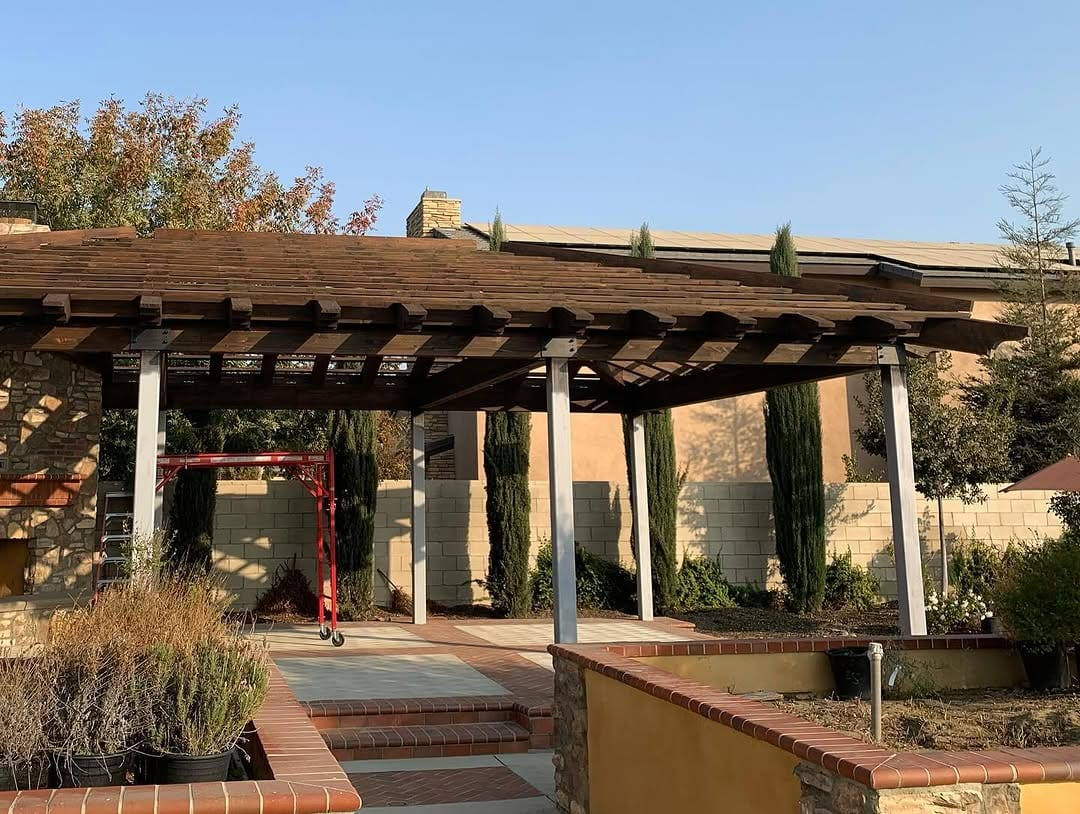
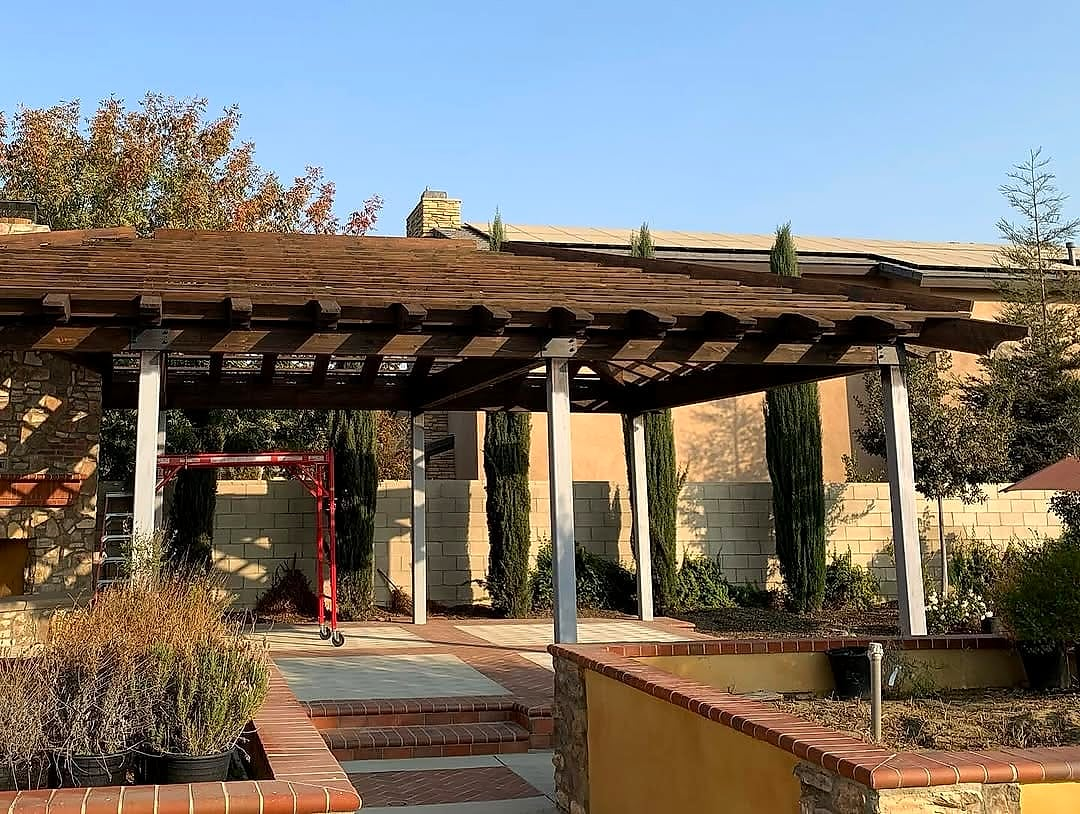
Finish project photos and present them as a brush-masked film strip
- Add scripts/enhance-photos.js (levels, color, sharpening) and run it
  on all ten project photos
- Replace the masonry grid with a horizontal, scroll-snapping showcase:
  each photo is clipped with a ragged brush-stroke mask, carries a big
  stencil number, drifts slowly (Ken Burns), and dims when not centred;
  arrows, counter, dots and filters, with the lightbox kept
- Slow drift on the service and "Why SRL" photos; all motion off under
  prefers-reduced-motion

Claude-Session: https://claude.ai/code/session_01K8SoZqZLaBqhyhpQF7g1ka

diff --git a/src/app/globals.css b/src/app/globals.css
@@ -407,48 +407,6 @@ p { color: var(--muted); }
 }
 .gallery-filters button:hover { border-color: var(--ink); }
 .gallery-filters button[aria-pressed="true"] { background: var(--black); border-color: var(--black); color: white; }
-.gallery-grid {
-  list-style: none;
-  padding: 0;
-  margin: 0;
-  display: grid;
-  grid-template-columns: repeat(3, minmax(0, 1fr));
-  grid-auto-rows: 240px;
-  grid-auto-flow: dense;
-  gap: 16px;
-}
-.gallery-grid li.is-tall { grid-row: span 2; }
-.gallery-grid button {
-  position: relative;
-  display: block;
-  width: 100%;
-  height: 100%;
-  padding: 0;
-  border: 0;
-  border-radius: 16px;
-  overflow: hidden;
-  background: var(--char);
-  cursor: zoom-in;
-}
-.gallery-grid img { object-fit: cover; transition: transform .7s cubic-bezier(.22,1,.36,1); }
-.gallery-grid button::after { content: ""; position: absolute; inset: 0; background: linear-gradient(180deg, transparent 55%, #000a); }
-.gallery-caption {
-  position: absolute;
-  left: 18px;
-  right: 18px;
-  bottom: 16px;
-  z-index: 1;
-  display: flex;
-  flex-direction: column;
-  align-items: flex-start;
-  color: white;
-  text-align: left;
-  font-weight: 700;
-  font-size: 16px;
-  line-height: 1.25;
-}
-.gallery-caption small { font-size: 11px; letter-spacing: .14em; text-transform: uppercase; color: #ffb3bb; margin-bottom: 4px; }
-@media (hover: hover) { .gallery-grid button:hover img { transform: scale(1.06); } }
 
 .lightbox {
   width: 100vw;
@@ -805,8 +763,6 @@ p { color: var(--muted); }
   .service-body { padding: 24px; }
   .commercial-band { padding: 32px 26px; }
   .promise-grid { grid-template-columns: 1fr; }
-  .gallery-grid { grid-template-columns: 1fr 1fr; grid-auto-rows: 170px; gap: 10px; }
-  .gallery-caption { left: 12px; right: 12px; bottom: 10px; font-size: 14px; }
   .lightbox figure { inset: 76px 12px 90px; }
   .lightbox-nav { top: auto; bottom: 20px; transform: none; }
   .lightbox-nav.prev { left: calc(50% - 64px); }
@@ -957,8 +913,6 @@ p { color: var(--muted); }
 @media (hover: hover) {
   .service-card:hover .service-photo::after { transform: translateX(120%); }
   .service-card:hover .service-body h3 .srl-icon { transform: rotate(-12deg) scale(1.12); }
-  .gallery-grid button { transition: transform .4s cubic-bezier(.2,.9,.2,1), box-shadow .4s; }
-  .gallery-grid button:hover { transform: translateY(-4px) rotate(-.4deg); box-shadow: 0 24px 40px -24px #000a, 0 0 0 3px var(--red); }
 }
 
 /* Shared house illustration */
@@ -1108,3 +1062,80 @@ p { color: var(--muted); }
   .paint-drips .drip { transform: none !important; animation: none !important; }
   .process-steps li { opacity: 1; transform: none; }
 }
+
+
+/* ───────────── Project showcase (film strip) ───────────── */
+.showcase { position: relative; }
+.showcase-bar { display: flex; flex-wrap: wrap; align-items: center; justify-content: space-between; gap: 16px; margin-bottom: 28px; }
+.gallery-filters { margin-bottom: 0; }
+.showcase-nav { display: flex; align-items: center; gap: 8px; }
+.showcase-count { margin-right: 10px; font-size: 14px; color: var(--muted); font-variant-numeric: tabular-nums; }
+.showcase-count strong { font-family: var(--font-display), Impact, sans-serif; font-weight: 400; font-size: 30px; color: var(--ink); margin-right: 4px; }
+.showcase-nav button { display: grid; place-items: center; width: 52px; height: 52px; border-radius: 50%; border: 1.5px solid var(--line); background: white; color: var(--ink); }
+.showcase-nav button:hover { background: var(--black); border-color: var(--black); color: white; }
+.showcase-strip {
+  list-style: none;
+  margin: 0 calc(50% - 50vw);
+  padding: 20px calc(50vw - 50%) 10px;
+  display: flex;
+  gap: 32px;
+  overflow-x: auto;
+  scroll-snap-type: x mandatory;
+  scroll-padding-inline: calc(50vw - 50%);
+  scrollbar-width: none;
+  overscroll-behavior-x: contain;
+}
+.showcase-strip::-webkit-scrollbar { display: none; }
+.showcase-strip li { flex: 0 0 min(60vw, 820px); scroll-snap-align: center; transition: opacity .5s, filter .5s, transform .6s cubic-bezier(.2,.9,.2,1); opacity: .7; filter: saturate(.4); transform: scale(.94); }
+.showcase-strip li.is-current { opacity: 1; filter: none; transform: none; }
+.showcase-strip button { position: relative; display: block; width: 100%; padding: 0; border: 0; background: transparent; cursor: zoom-in; }
+.showcase-frame {
+  position: relative;
+  display: block;
+  aspect-ratio: 5 / 3;
+  clip-path: url(#brush-mask);
+  background: var(--char);
+  filter: drop-shadow(0 30px 40px #0004);
+}
+.showcase-frame img { object-fit: cover; animation: kenburns 18s ease-in-out infinite alternate; transform-origin: 60% 40%; }
+.showcase-strip li:nth-child(even) .showcase-frame img { transform-origin: 35% 65%; animation-delay: -9s; }
+@keyframes kenburns { from { transform: scale(1); } to { transform: scale(1.12); } }
+.showcase-num {
+  position: absolute;
+  left: 6%;
+  top: 8%;
+  font-family: var(--font-display), Impact, sans-serif;
+  font-size: clamp(60px, 7vw, 110px);
+  line-height: 1;
+  color: transparent;
+  -webkit-text-stroke: 2px #fff;
+  opacity: .9;
+  text-shadow: 0 6px 30px #0006;
+  pointer-events: none;
+}
+.showcase-caption { display: grid; grid-template-columns: auto 1fr auto; align-items: baseline; gap: 14px; padding: 18px 6% 0; }
+.showcase-caption small { font-size: 11px; font-weight: 700; letter-spacing: .16em; text-transform: uppercase; color: var(--red-text); }
+.showcase-caption strong { font-size: 20px; letter-spacing: -.01em; }
+.showcase-caption span { font-size: 13px; color: var(--muted); }
+.showcase-dots { display: flex; justify-content: center; gap: 6px; margin-top: 22px; }
+.showcase-dots button { width: 10px; height: 10px; padding: 0; border: 0; border-radius: 10px; background: var(--line); transition: width .3s, background .3s; }
+.showcase-dots button.is-on { width: 34px; background: var(--red); }
+@media (hover: hover) {
+  .showcase-strip button:hover .showcase-frame { filter: drop-shadow(0 40px 50px #0006); }
+}
+@media (max-width: 700px) {
+  .showcase-strip { gap: 18px; }
+  .showcase-strip li { flex-basis: 86vw; }
+  .showcase-frame { aspect-ratio: 4 / 3; }
+  .showcase-caption { grid-template-columns: 1fr; gap: 4px; padding-top: 12px; }
+  .showcase-caption strong { font-size: 18px; }
+}
+@media (prefers-reduced-motion: reduce) { .showcase-frame img { animation: none; } }
+
+/* Photos elsewhere: slow drift + parallax */
+.why-photo img { animation: kenburns 22s ease-in-out infinite alternate; transform-origin: 50% 20%; }
+.service-photo img { animation: kenburns 26s ease-in-out infinite alternate; }
+.service-card:nth-child(2) .service-photo img { animation-delay: -8s; }
+.service-card:nth-child(3) .service-photo img { animation-delay: -16s; }
+@media (hover: hover) { .service-card:hover .service-photo img { animation-play-state: paused; transform: scale(1.1); } }
+@media (prefers-reduced-motion: reduce) { .why-photo img, .service-photo img { animation: none; } }

diff --git a/src/components/project-gallery.tsx b/src/components/project-gallery.tsx
@@ -7,9 +7,15 @@ import { SrlIcon } from "./srl-icon";
 
 const filters: ("All" | ProjectCategory)[] = ["All", "Exterior", "Interior", "Cabinets", "Outdoor"];
 
+// Ragged brush-stroke silhouette used to mask every photo in the strip.
+const brush =
+  "M20 25 L44 37 L68 36 L92 24 L116 25 L140 26 L164 35 L188 25 L212 37 L236 33 L260 42 L284 36 L308 14 L332 17 L356 13 L380 18 L404 36 L428 35 L452 20 L476 38 L500 27 L524 42 L548 37 L572 42 L596 35 L620 28 L644 29 L668 24 L692 40 L716 36 L740 26 L764 19 L788 34 L812 29 L836 30 L860 32 L884 38 L908 41 L932 25 L956 34 L980 23 L984 84 L998 140 L972 192 L995 246 L976 300 L987 354 L970 406 L989 460 L965 514 L996 568 L980 563 L956 581 L932 575 L908 563 L884 557 L860 567 L836 571 L812 563 L788 581 L764 582 L740 571 L716 560 L692 579 L668 566 L644 580 L620 567 L596 572 L572 560 L548 572 L524 583 L500 578 L476 566 L452 571 L428 577 L404 560 L380 566 L356 560 L332 572 L308 578 L284 573 L260 583 L236 565 L212 561 L188 575 L164 582 L140 570 L116 582 L92 564 L68 575 L44 566 L20 579 L18 520 L32 466 L6 412 L28 358 L10 304 L34 250 L14 196 L22 142 L2 88 L30 34Z";
+
 export function ProjectGallery() {
   const [filter, setFilter] = useState<(typeof filters)[number]>("All");
   const [open, setOpen] = useState<number | null>(null);
+  const [index, setIndex] = useState(0);
+  const strip = useRef<HTMLUListElement>(null);
   const dialog = useRef<HTMLDialogElement>(null);
   const opener = useRef<HTMLButtonElement | null>(null);
   const visible = projects.filter((p) => filter === "All" || p.category === filter);
@@ -21,37 +27,95 @@ export function ProjectGallery() {
     if (open === null && element.open) element.close();
   }, [open]);
 
+  // Track which card is centred so the counter and dots follow native scroll.
+  useEffect(() => {
+    const el = strip.current;
+    if (!el) return;
+    let raf = 0;
+    const update = () => {
+      raf = 0;
+      const cards = Array.from(el.children) as HTMLElement[];
+      const centre = el.scrollLeft + el.clientWidth / 2;
+      let best = 0, dist = Infinity;
+      cards.forEach((card, i) => {
+        const d = Math.abs(card.offsetLeft + card.offsetWidth / 2 - centre);
+        if (d < dist) { dist = d; best = i; }
+      });
+      setIndex(best);
+    };
+    const onScroll = () => { if (!raf) raf = requestAnimationFrame(update); };
+    el.addEventListener("scroll", onScroll, { passive: true });
+    update();
+    return () => { el.removeEventListener("scroll", onScroll); cancelAnimationFrame(raf); };
+  }, [visible.length]);
+
+  function scrollTo(i: number) {
+    const el = strip.current;
+    const card = el?.children[i] as HTMLElement | undefined;
+    if (!el || !card) return;
+    el.scrollTo({ left: card.offsetLeft - (el.clientWidth - card.offsetWidth) / 2, behavior: "smooth" });
+  }
   function step(delta: number) {
     setOpen((current) => current === null ? null : (current + delta + visible.length) % visible.length);
   }
   const current = open === null ? null : visible[open];
 
   return (
-    <div className="gallery">
-      <div className="gallery-filters" role="group" aria-label="Filter projects">
-        {filters.map((name) => (
-          <button key={name} type="button" aria-pressed={filter === name} onClick={() => setFilter(name)}>
-            {name}
-          </button>
-        ))}
+    <div className="showcase">
+      <svg width="0" height="0" aria-hidden="true" focusable="false" style={{ position: "absolute" }}>
+        <defs>
+          <clipPath id="brush-mask" clipPathUnits="objectBoundingBox">
+            <path transform="scale(0.001, 0.0016667)" d={brush} />
+          </clipPath>
+        </defs>
+      </svg>
+
+      <div className="showcase-bar">
+        <div className="gallery-filters" role="group" aria-label="Filter projects">
+          {filters.map((name) => (
+            <button key={name} type="button" aria-pressed={filter === name}
+              onClick={() => { setFilter(name); strip.current?.scrollTo({ left: 0 }); }}>
+              {name}
+            </button>
+          ))}
+        </div>
+        <div className="showcase-nav">
+          <span className="showcase-count" aria-live="polite">
+            <strong>{String(index + 1).padStart(2, "0")}</strong> / {String(visible.length).padStart(2, "0")}
+          </span>
+          <button type="button" onClick={() => scrollTo(Math.max(0, index - 1))} aria-label="Previous project"><SrlIcon name="left" /></button>
+          <button type="button" onClick={() => scrollTo(Math.min(visible.length - 1, index + 1))} aria-label="Next project"><SrlIcon name="right" /></button>
+        </div>
       </div>
-      <ul className="gallery-grid">
-        {visible.map((project, index) => (
-          <li key={project.src} className={project.tall ? "is-tall" : undefined}>
+
+      <ul className="showcase-strip" ref={strip} aria-label="Project photos">
+        {visible.map((project, i) => (
+          <li key={project.src} className={i === index ? "is-current" : undefined}>
             <button
               type="button"
-              onClick={(event) => { opener.current = event.currentTarget; setOpen(index); }}
+              onClick={(event) => { opener.current = event.currentTarget; setOpen(i); }}
               aria-label={`View larger: ${project.title}`}
             >
-              <Image src={project.src} alt={project.alt} fill sizes="(max-width: 700px) 50vw, 33vw" />
-              <span className="gallery-caption">
-                <small>{project.category}</small>
-                {project.title}
+              <span className="showcase-frame">
+                <Image src={project.src} alt={project.alt} fill sizes="(max-width: 700px) 86vw, 60vw" />
               </span>
+              <span className="showcase-num" aria-hidden="true">{String(i + 1).padStart(2, "0")}</span>
             </button>
+            <div className="showcase-caption">
+              <small>{project.category}</small>
+              <strong>{project.title}</strong>
+              <span>Bakersfield, CA</span>
+            </div>
           </li>
         ))}
       </ul>
+
+      <div className="showcase-dots" aria-hidden="true">
+        {visible.map((project, i) => (
+          <button key={project.src} type="button" tabIndex={-1} className={i === index ? "is-on" : undefined} onClick={() => scrollTo(i)} />
+        ))}
+      </div>
+
       <dialog
         ref={dialog}
         className="lightbox"

diff --git a/scripts/enhance-photos.js b/scripts/enhance-photos.js
@@ -1,0 +1,28 @@
+// One-off photo finishing for the project gallery: gentle levels, color and
+// sharpening so phone shots read crisp on a dark site. Writes to an output
+// folder (default: overwrite in place) and keeps the originals in git history.
+const fs = require("fs");
+const path = require("path");
+const sharp = require("sharp");
+
+const src = path.join(process.cwd(), "public/projects");
+const out = process.argv[2] ? path.resolve(process.argv[2]) : src;
+
+async function enhance(name) {
+  const input = path.join(src, name);
+  const buffer = await sharp(input)
+    .rotate()
+    .normalise({ lower: 1, upper: 99.5 })
+    .modulate({ saturation: 1.14, brightness: 1.02 })
+    .linear(1.04, -4)
+    .sharpen({ sigma: 0.9, m1: 0.6, m2: 2 })
+    .jpeg({ quality: 84, mozjpeg: true, progressive: true })
+    .toBuffer();
+  fs.mkdirSync(out, { recursive: true });
+  fs.writeFileSync(path.join(out, name), buffer);
+  console.log(`Enhanced ${name} → ${Math.round(buffer.length / 1024)} KB`);
+}
+
+(async () => {
+  for (const name of fs.readdirSync(src).filter((f) => f.endsWith(".jpg"))) await enhance(name);
+})();
